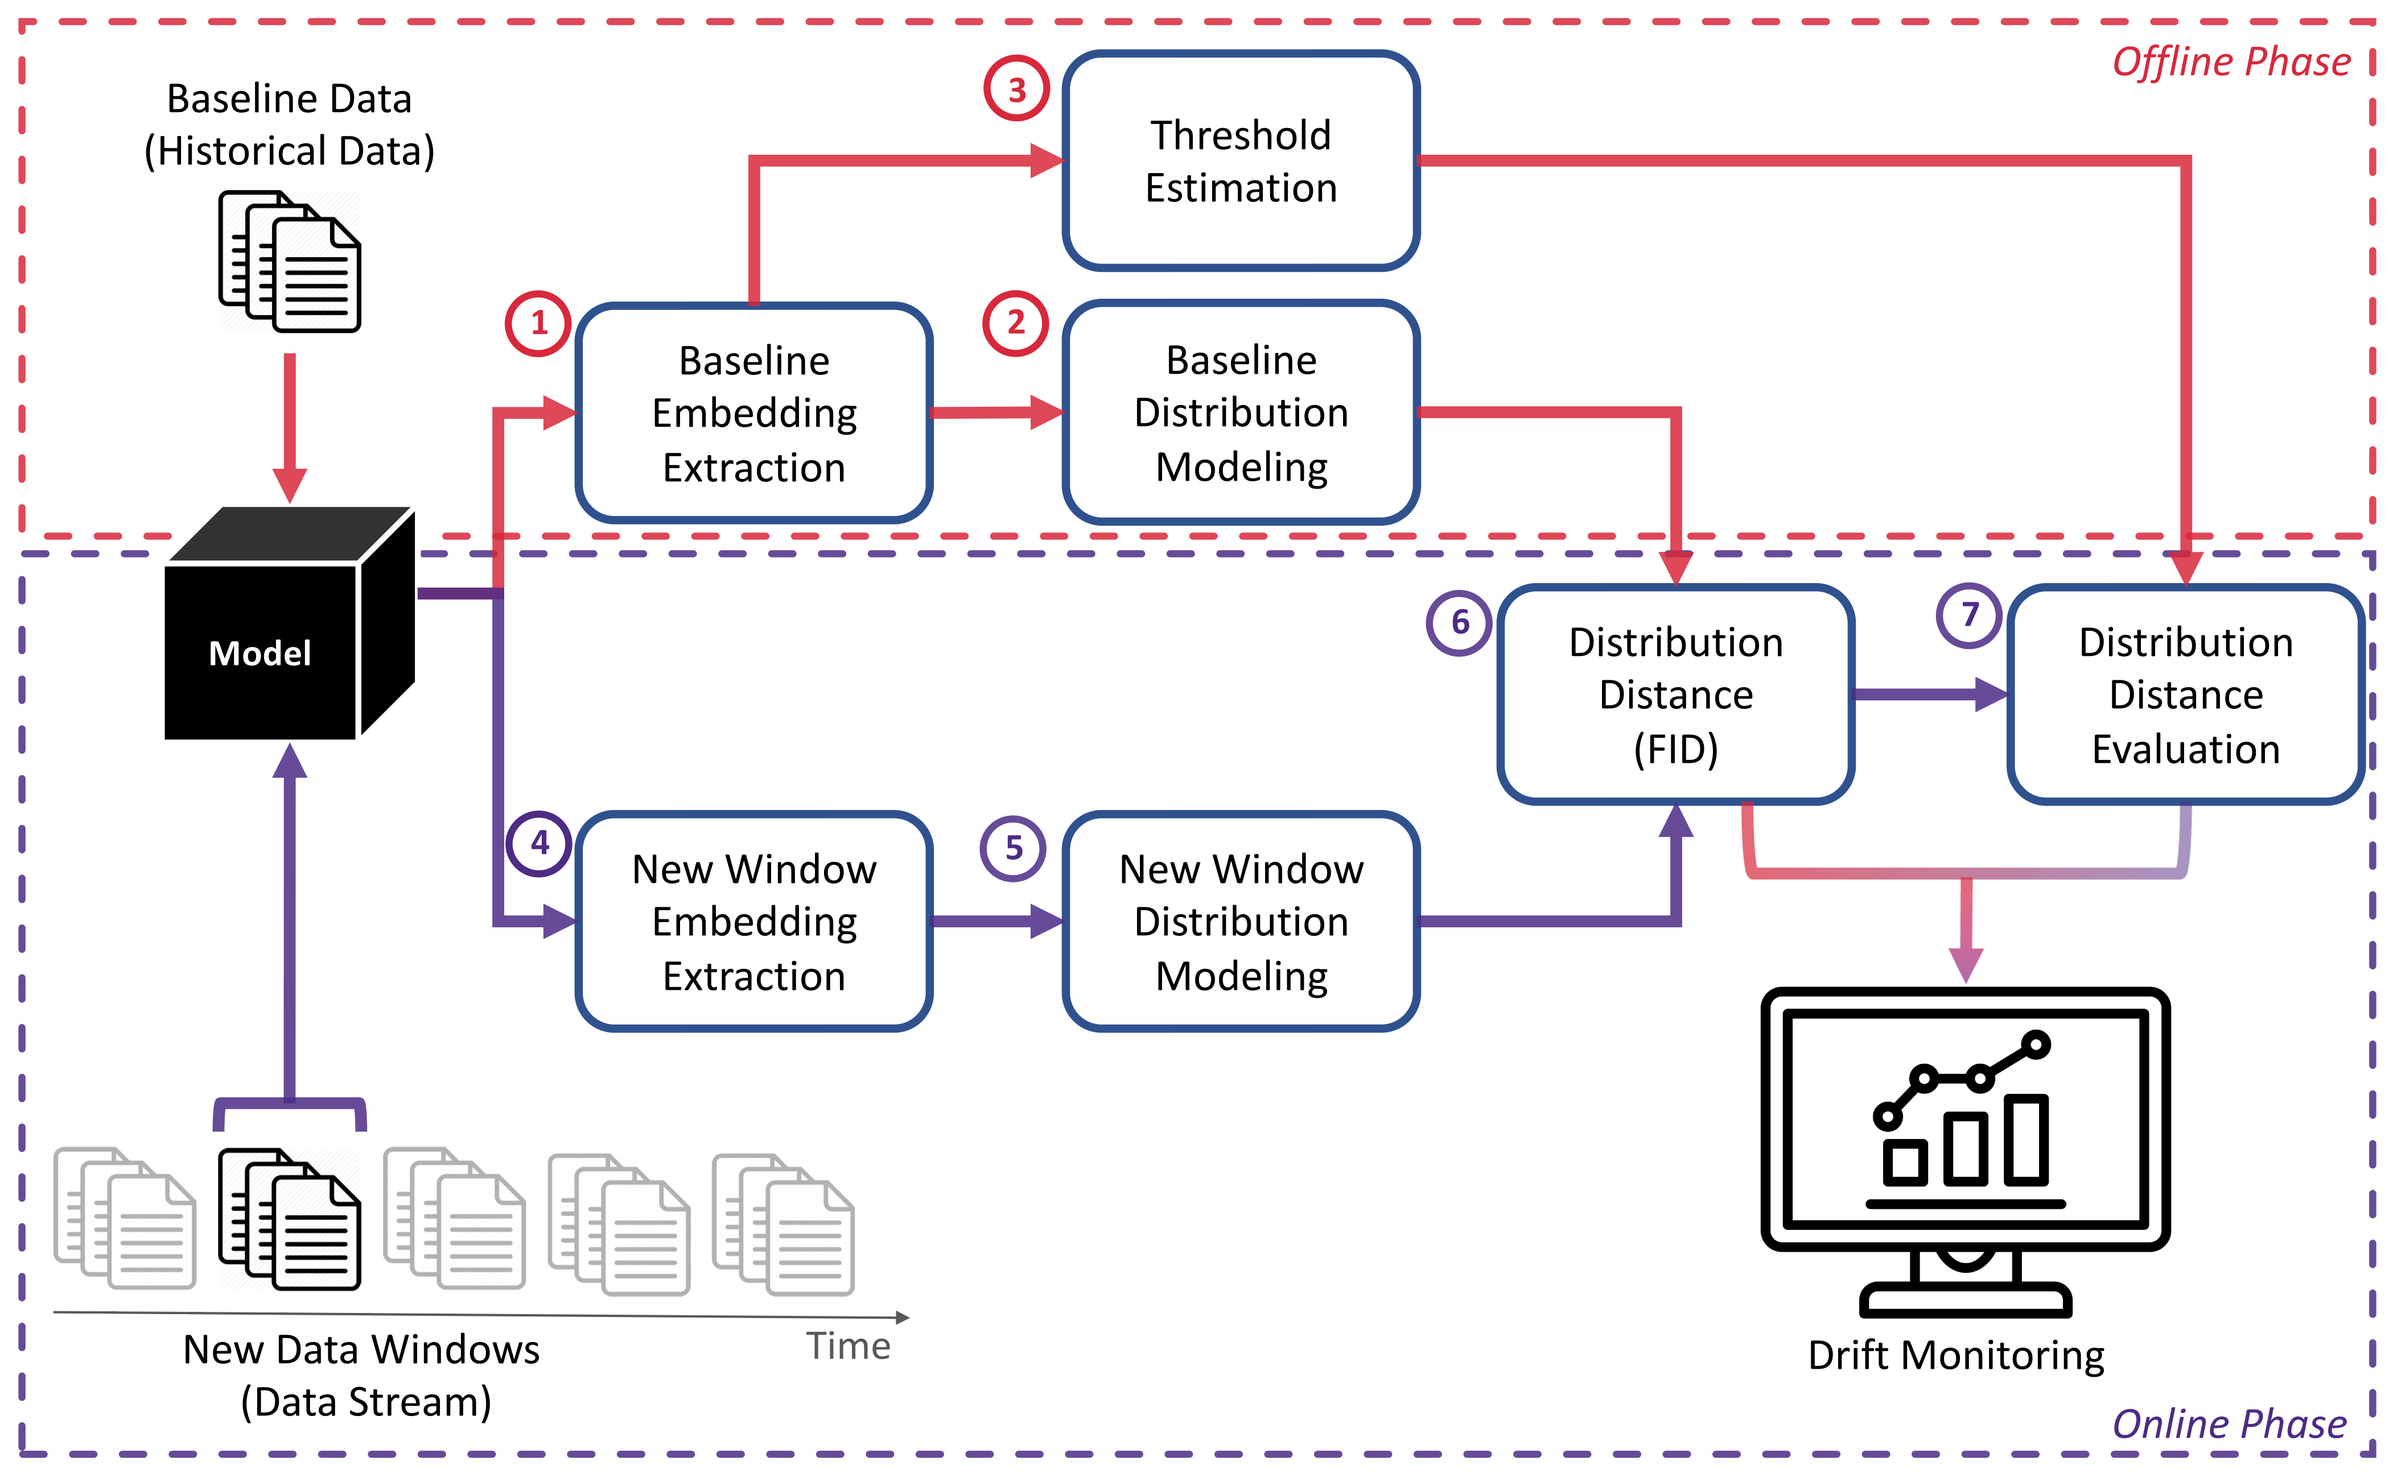
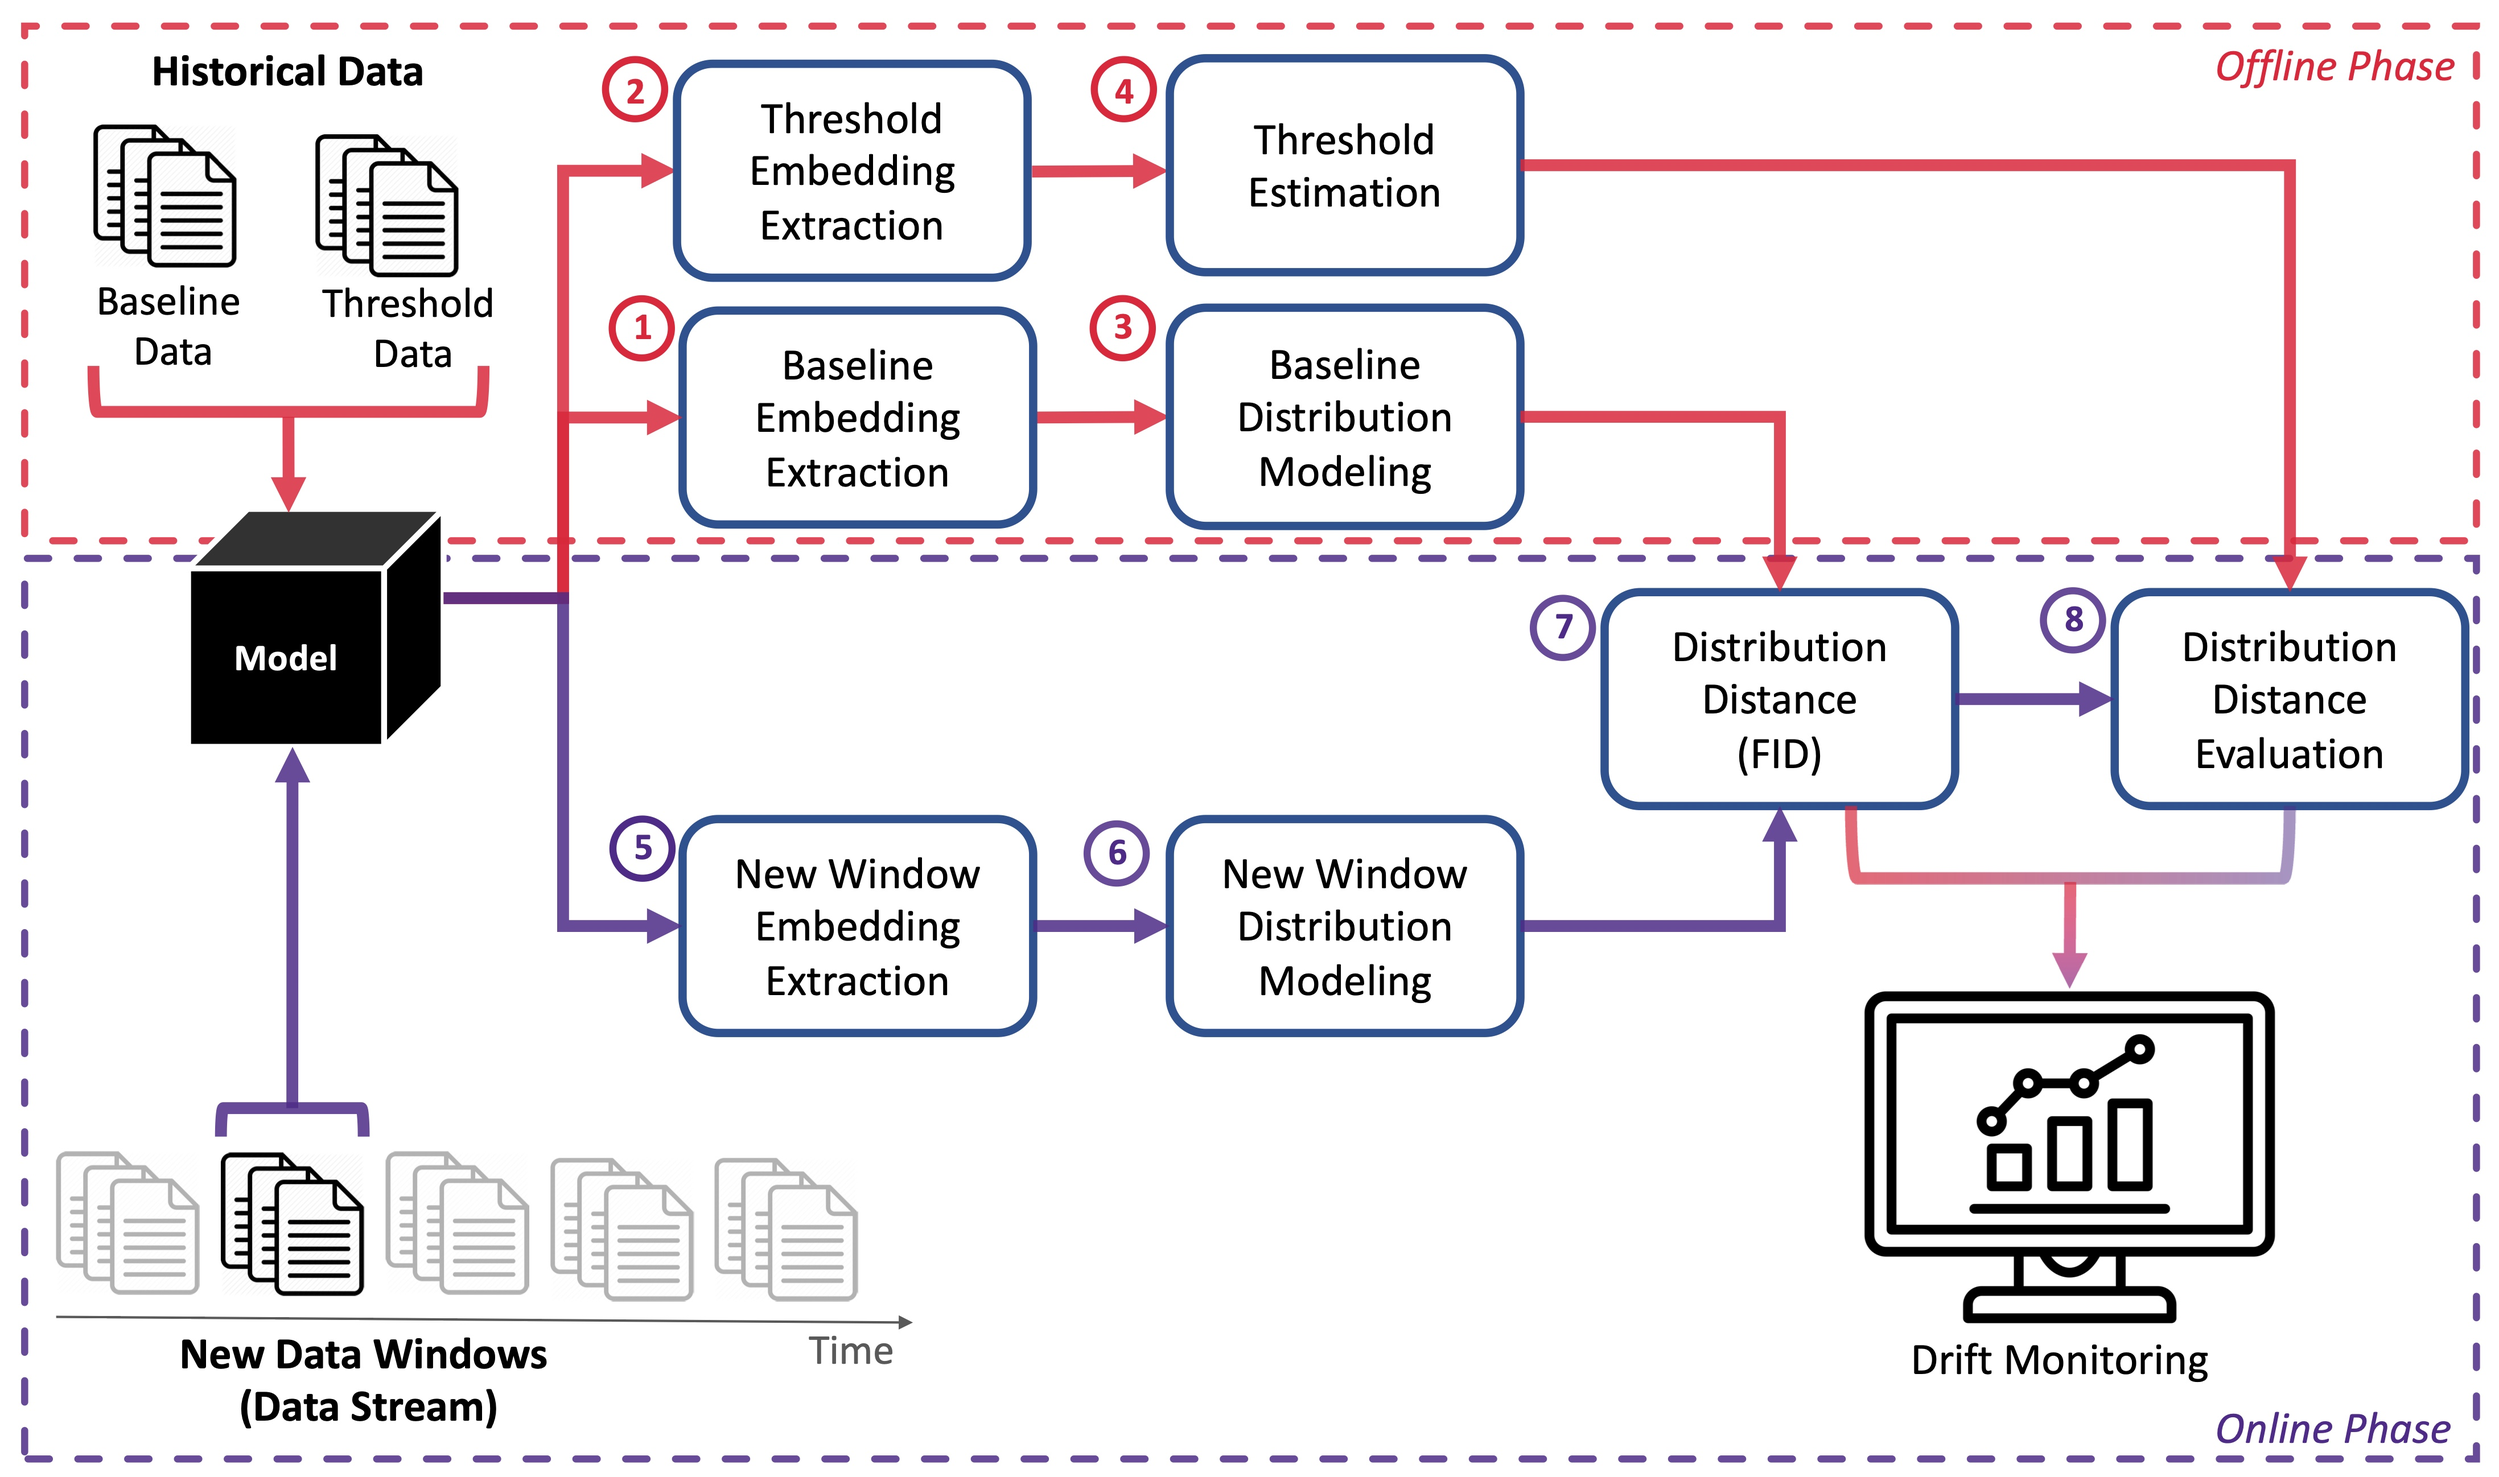
Added documentation

Changed region(s): [[0.0, 0.0, 0.9969, 1.0], [0.5919, 0.9572, 0.9969, 1.0], [0.0, 0.3396, 0.0312, 0.3705]]

diff --git a/templates/header.html b/templates/header.html
@@ -18,7 +18,6 @@
     <link href="{{url_for('static', filename = 'css/app.css')}}" rel="stylesheet">
 </head>
 <body>
-    <!-- Navbar content - mobile friendly -->
     <nav class="navbar navbar-expand-lg navbar-light bg-light">
         <div class="container-fluid">
             <!-- Link to the home page -->
@@ -34,16 +33,24 @@
                     aria-label="Toggle navigation">
                 <span class="navbar-toggler-icon"></span>
             </button>
+
             <!-- 3 links to the other pages -->
             <div class="collapse navbar-collapse" id="navbarSupportedContent">
                 <ul class="navbar-nav me-auto mb-2 mb-lg-0">
                     <li class="nav-item">
-                        <a class="nav-link {% if request.path == '/run_our_drift_experiment' %} active {% endif %}" href="/run_our_drift_experiment">&nbsp;Run Controlled Drift Experiment </a>
+                        <a class="nav-link {% if request.path == '/run_our_drift_experiment' %} active {% endif %}" href="/run_our_drift_experiment">Run Controlled Drift Experiment</a>
                     </li>
                     <li class="nav-item">
-                        <a class="nav-link {% if request.path == '/run_your_drift_experiment' %} active {% endif %}" href="/run_your_drift_experiment"> Run Your Drift Experiment </a>
+                        <a class="nav-link {% if request.path == '/run_your_drift_experiment' %} active {% endif %}" href="/run_your_drift_experiment">Run Your Drift Experiment</a>
                     </li>
                 </ul>
+                <div class="ms-auto">
+                    <ul class="navbar-nav">
+                        <li class="nav-item">
+                            <a class="nav-link {% if request.path == '/documentation' %} active {% endif %}" href="/documentation">Docs</a>
+                        </li>
+                    </ul>
+                </div>
             </div>
         </div>
     </nav>

diff --git a/templates/documentation.html b/templates/documentation.html
@@ -1,0 +1,31 @@
+{% include "header.html" %}
+
+
+{% block content %}
+    <h1>DriftLens Documentation</h1>
+    <p>
+        DriftLens is an unsupervised drift detection techniques for deep learning classifiers on unstructured data. <br>
+        The overall architecture is shown in Figure 1.
+        It computes distribution distances on the embedding representations of a deep learning classifier, extracted from historical dataset called baseline and a new data stream divided into fixed-size windows.
+        Specifically, each batch of data (i.e., the baseline or the new data windows) are modeled as a multivariate normal distribution by computing the mean and the covariance matrix of the embedding vectors.
+        Then, the Fréchet Inception Distance (FID) score is computed to measure the distribution distance between the multivariate normal distributions of the baseline with respect to the ones of the new data windows.
+        The greater is the distance, the larger the drift.
+
+    </p>
+    <figure class="center-image">
+        <img src="static/images/driftlens-demo-architecture.png" width="800" class="d-inline-block align-text-top" alt="Descriptive Alt Text">
+        <figcaption>Your Caption Here</figcaption>
+    </figure>
+
+
+    <p>
+        <ul>
+            <li><b>Drift Detection with a pre-uploaded use case:</b> The DriftLens tool provides four pre-uploaded use cases in the NLP and computer vision domain. </li>
+            <li><b>Upload your use case:</b> </li>
+        </ul>
+    </p>
+
+
+{% endblock %}
+
+{% include "footer.html" %}

diff --git a/templates/index.html b/templates/index.html
@@ -4,18 +4,10 @@
 {% block content %}
     <img src="static/images/Drift_Lens_Logo.png" alt="logo" width="300" class="d-inline-block align-text-top">
     <p>
-        DriftLens is an unsupervised drift detection techniques for deep learning classifiers on unstructured data. <br>
-        The overall architecture is shown in Figure 1.
-        It computes distribution distances on the embedding representations of a deep learning classifier, extracted from historical dataset called baseline and a new data stream divided into fixed-size windows.
-        Specifically, each batch of data (i.e., the baseline or the new data windows) are modeled as a multivariate normal distribution by computing the mean and the covariance matrix of the embedding vectors.
-        Then, the Fréchet Inception Distance (FID) score is computed to measure the distribution distance between the multivariate normal distributions of the baseline with respect to the ones of the new data windows.
-        The greater is the distance, the larger the drift.
+        Welcome....
 
     </p>
-    <figure class="center-image">
-        <img src="static/images/driftlens-demo-architecture.png" width="800" class="d-inline-block align-text-top" alt="Descriptive Alt Text">
-        <figcaption>Your Caption Here</figcaption>
-    </figure>
+
 
 
     <p>

diff --git a/templates/run_our_drift_experiment.html b/templates/run_our_drift_experiment.html
@@ -27,8 +27,8 @@
 
 
 
-<h1>Run Drift Experiment on a Pre-Uploaded Use Case</h1>
-<h3>Use Cases</h3>
+<h1>Run Controlled Drift Experiment</h1>
+<h3>Pre-uploaded Use Cases</h3>
     <table>
   <caption>Pre-uploaded use cases.</caption>
   <thead>

diff --git a/driftlens_app.py b/driftlens_app.py
@@ -326,6 +326,10 @@ Serve root index file
 def index():
     return render_template('index.html')
 
+@app.route('/documentation')
+def documentation():
+    return render_template('documentation.html')
+
 @app.route('/run_your_drift_experiment')
 def run_your_drift_experiment():
     timestamp = int(time.time())
